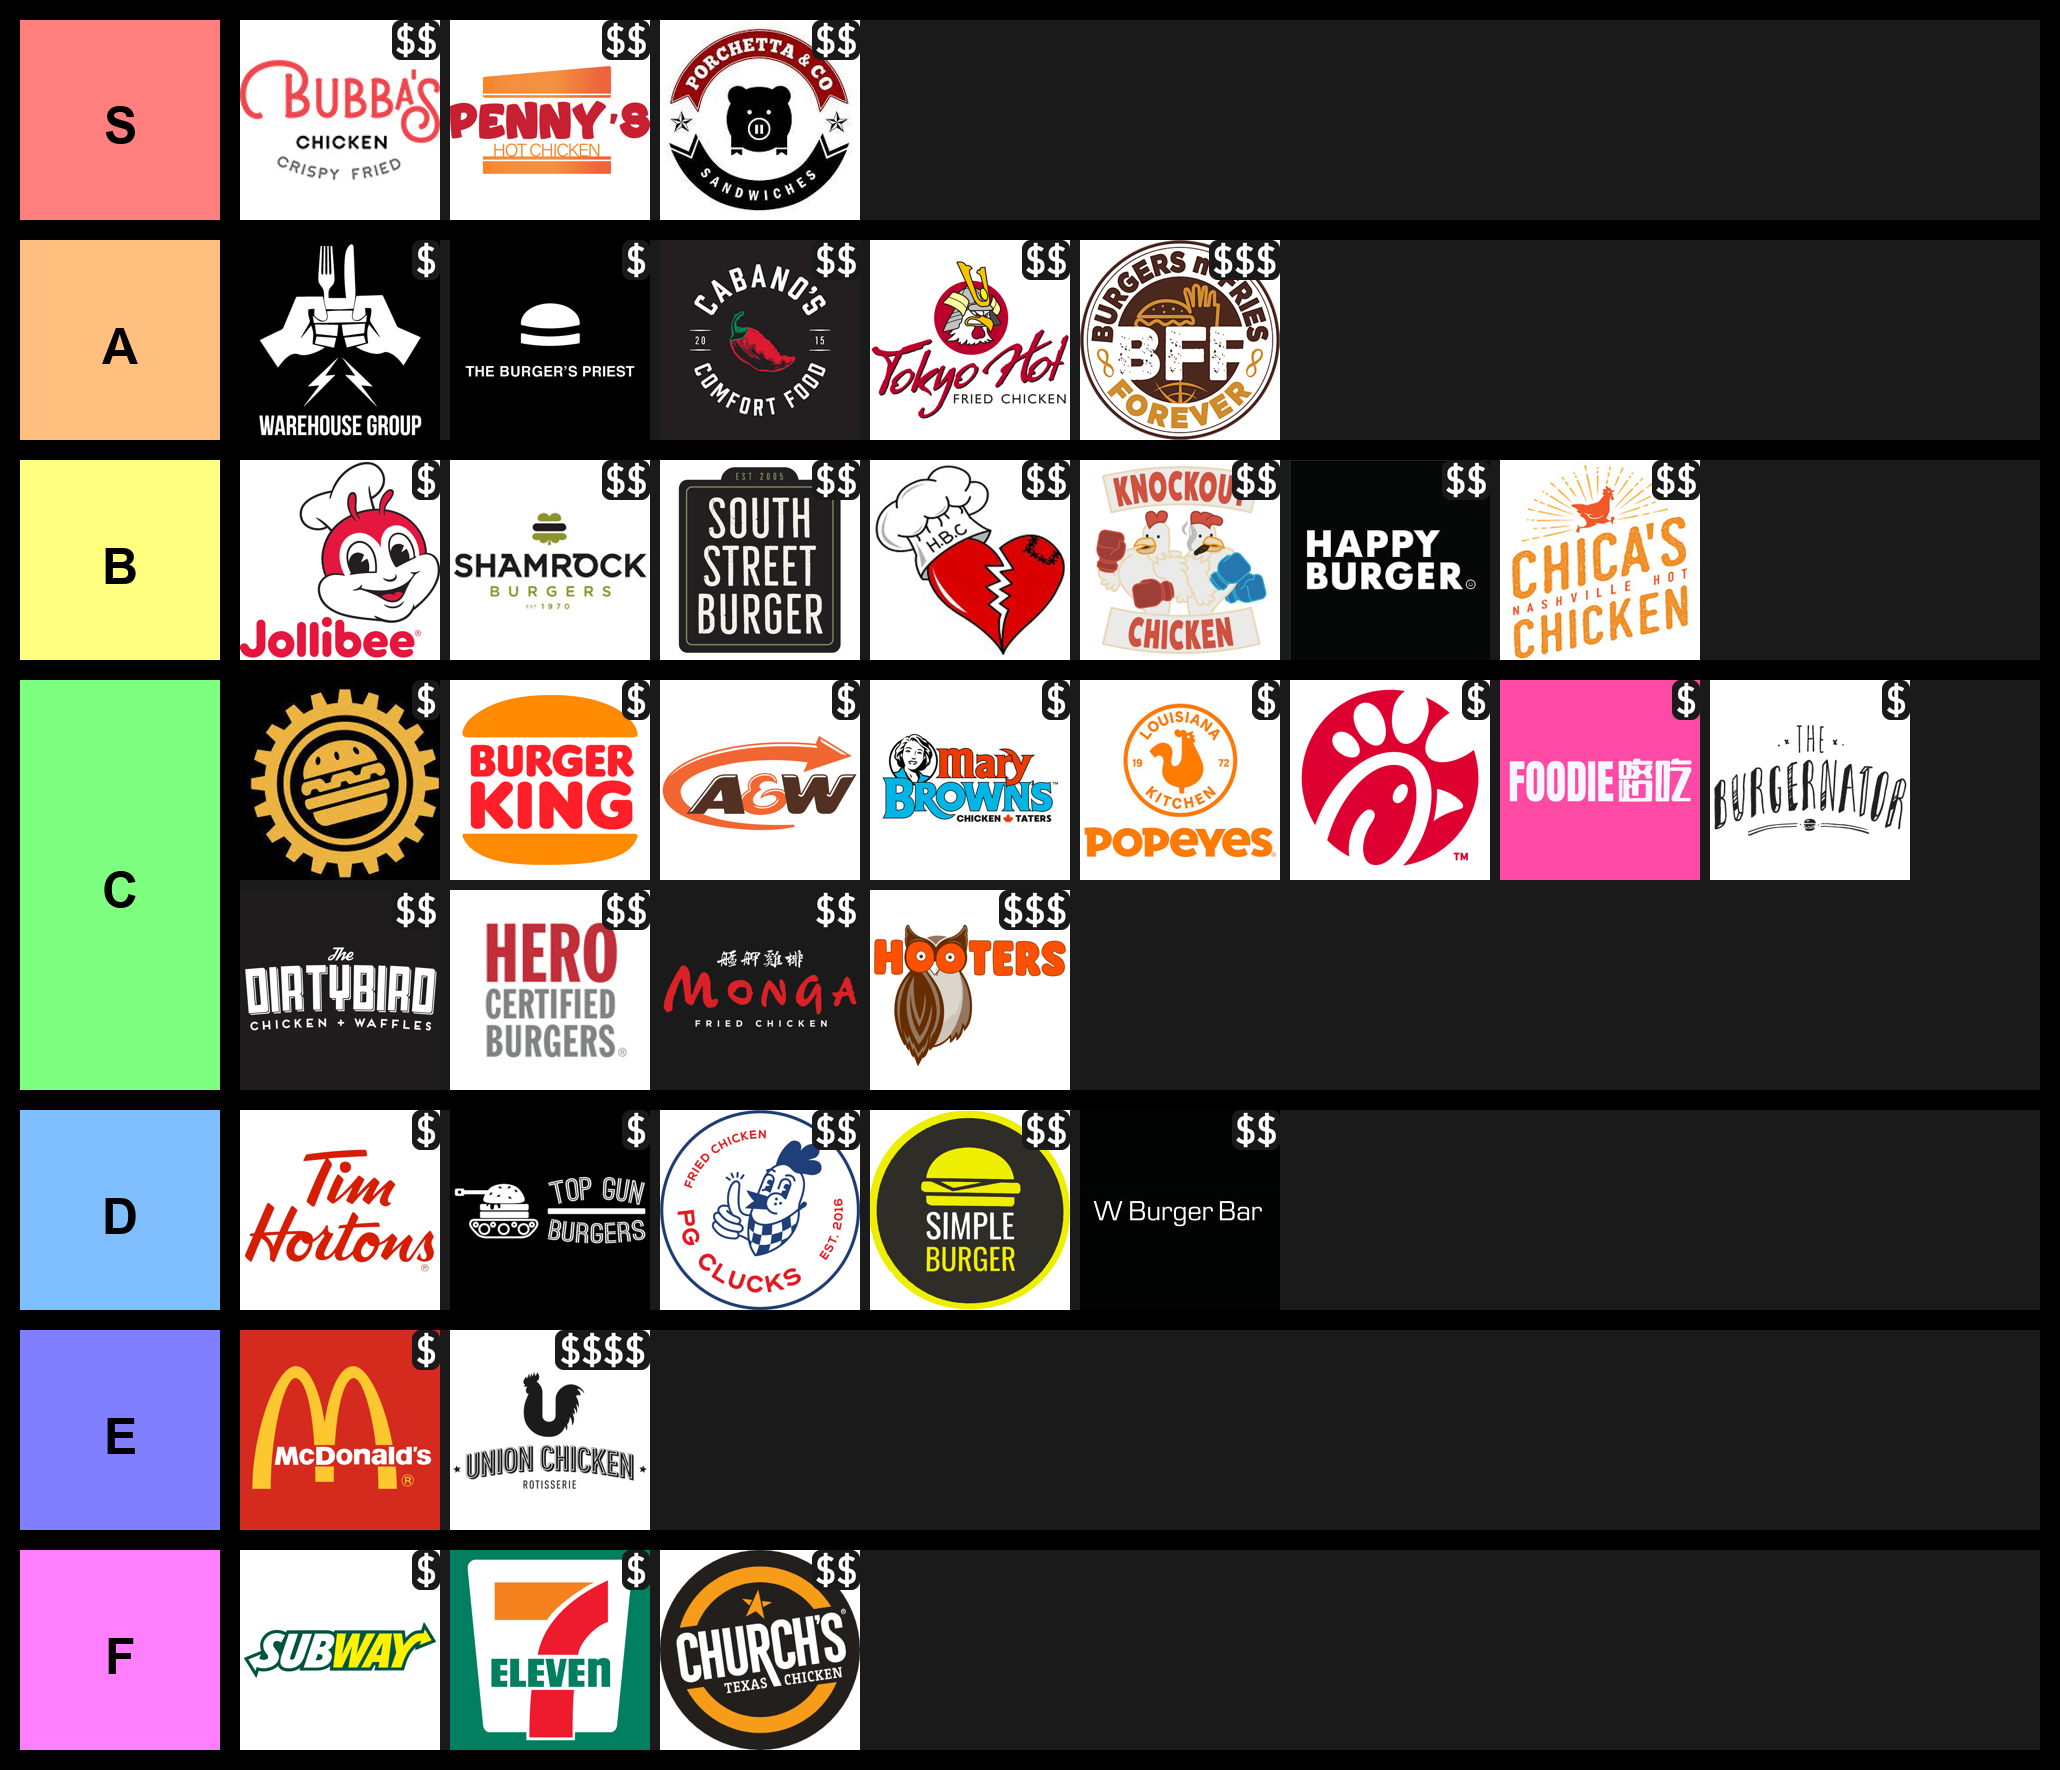
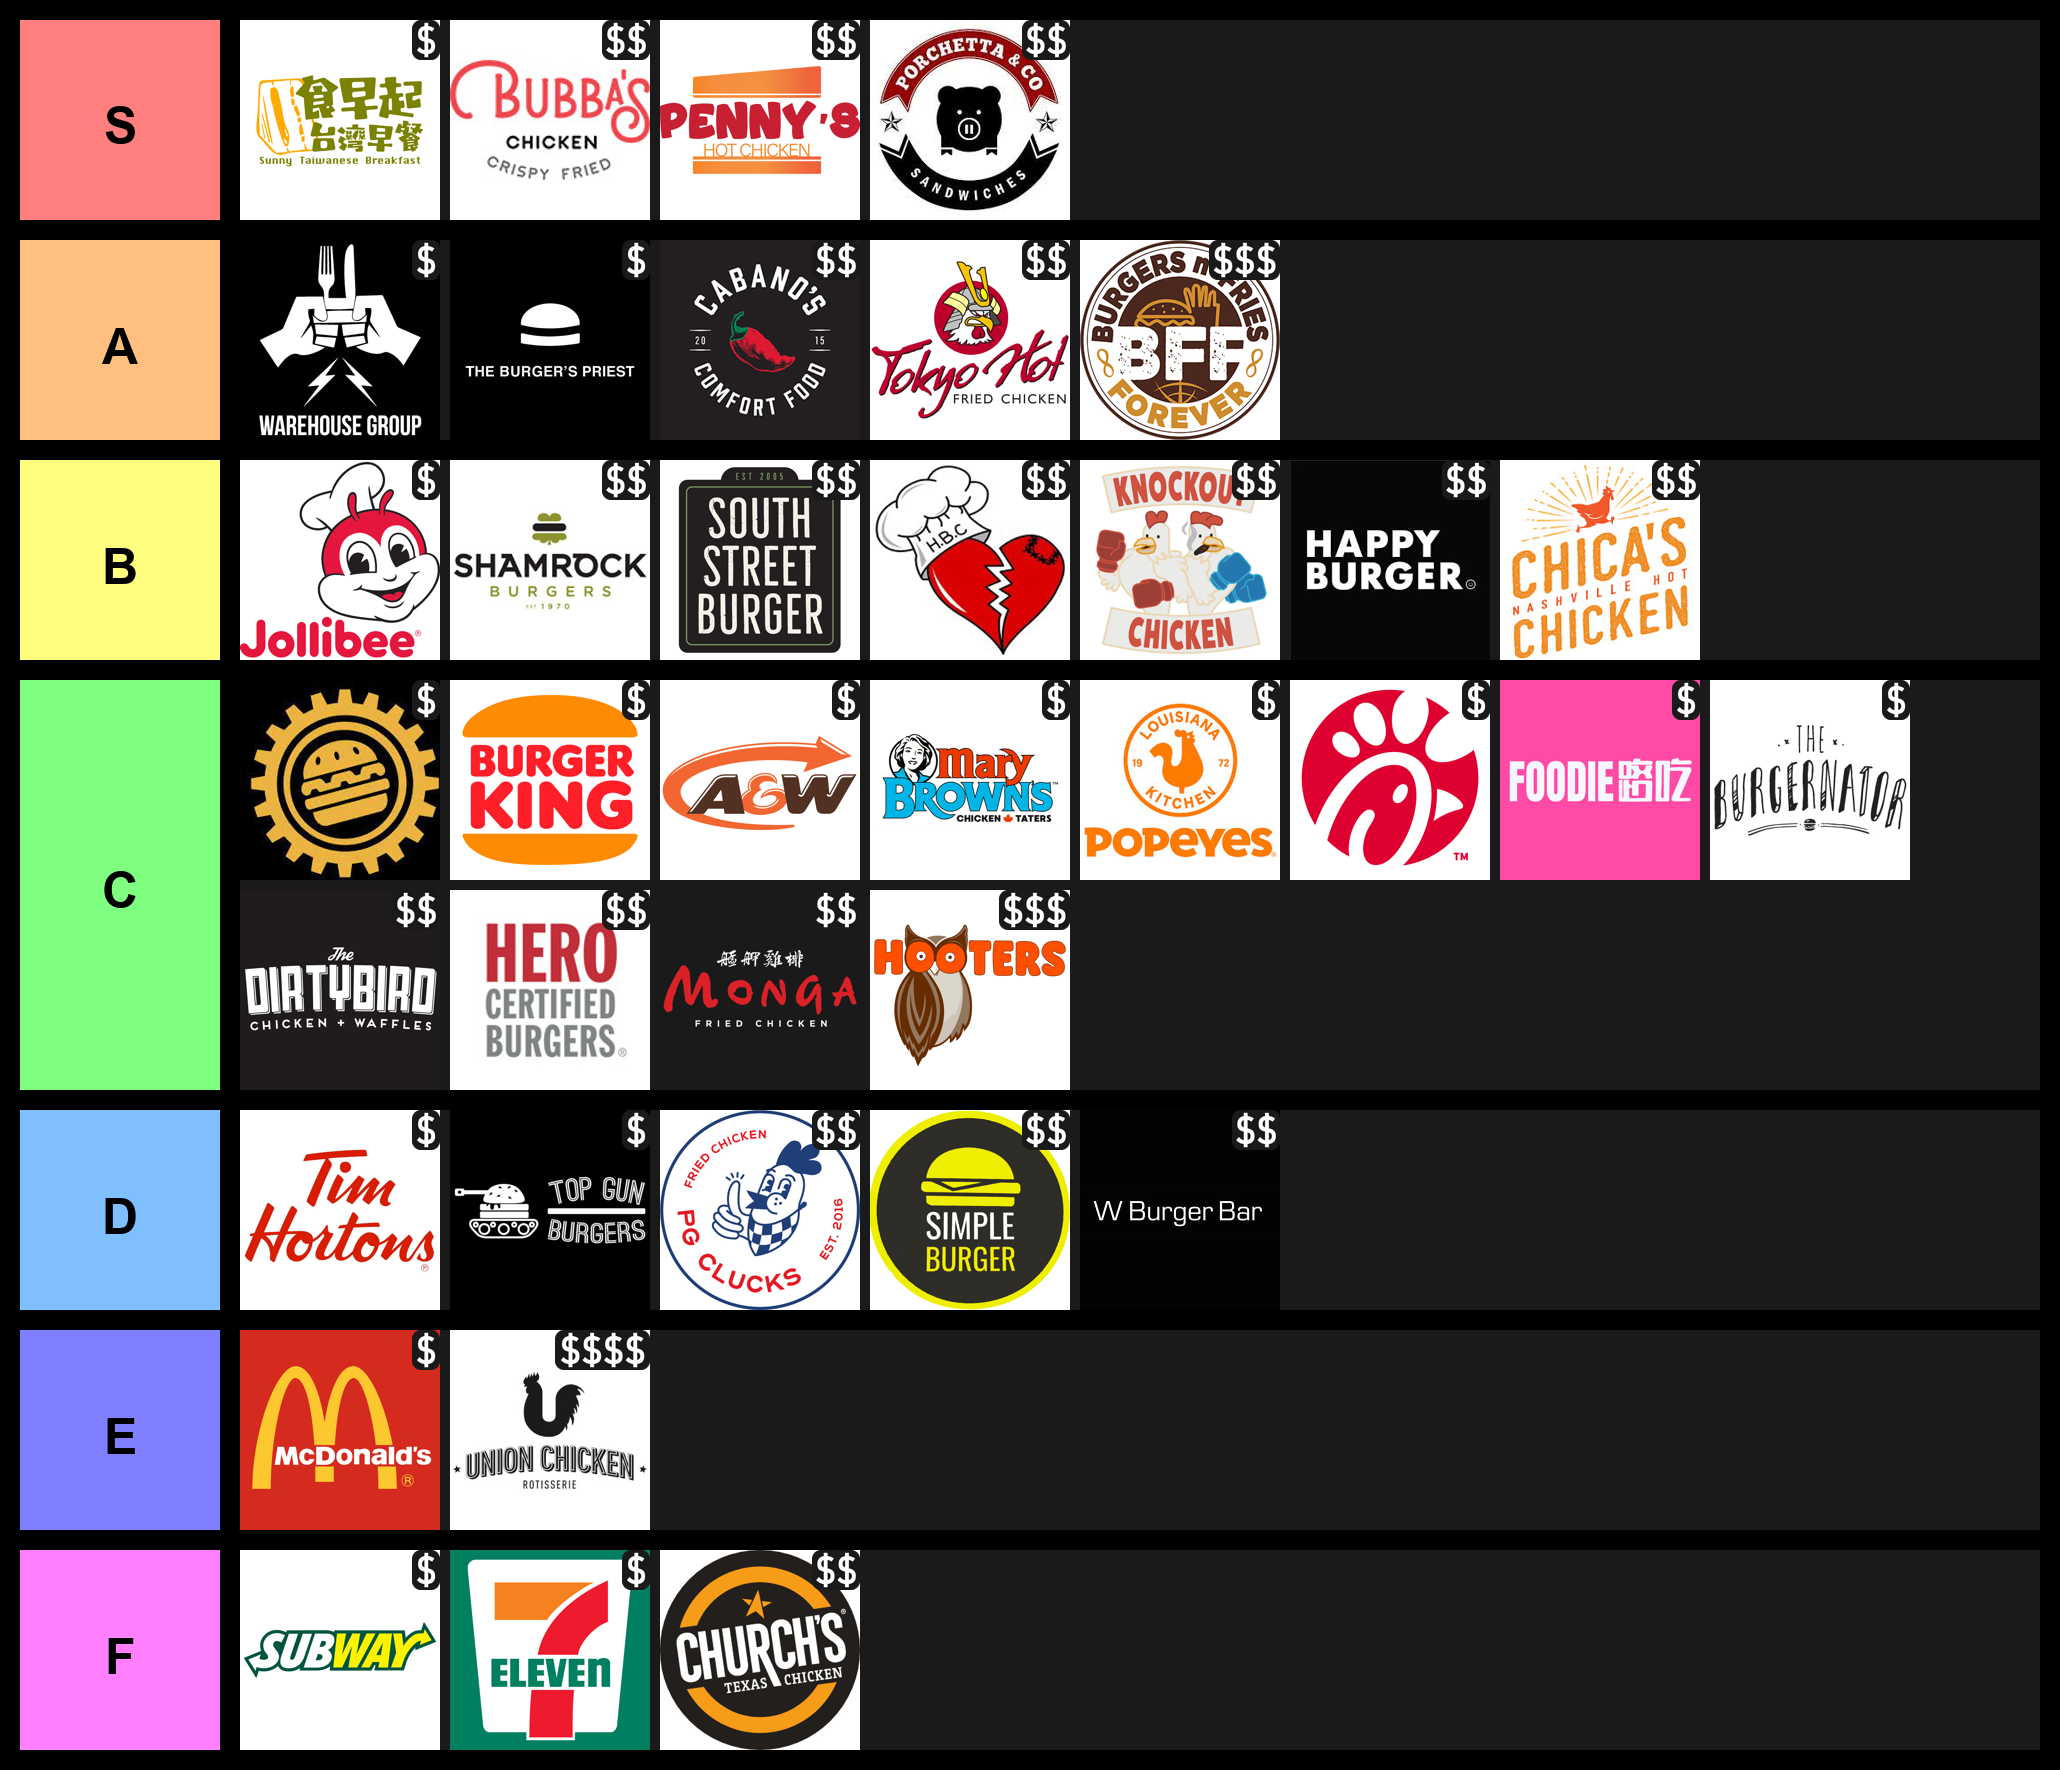
Added Sunny Taiwanese Breakfast + moved tierlist code to helper.py

Changed region(s): [[0.1243, 0.0, 0.5282, 0.1243]]

diff --git a/helper.py b/helper.py
@@ -13,7 +13,6 @@ import certifi
 import pytz
 
 load_dotenv()
-
 connection_string = os.getenv("connection")
 client = pymongo.MongoClient(connection_string, tlsCAFile=certifi.where())
 db = client["fried-chicken-sandwich-bot"]
@@ -356,4 +355,12 @@ def reformat_opening_hours_text(opening_hours_text, opening_hours):
     return "\n".join(modified_list)
 
 if __name__ == '__main__':
-    setup_db()
+    print(collection.count_documents({}))
+    print(len(get_restaurants_info()))
+    if collection.count_documents({}) != len(get_restaurants_info()):
+        setup_db()
+    # Count the number of images under the directory logos
+    count = sum([len(files) for _, _, files in os.walk('logos')])
+    assert count == sum([len(tier_dict[tier]) for tier in tier_dict])
+    tierlist = make_tierlist()
+    tierlist.save('tierlist.png')

diff --git a/tierlist.py b/tierlist.py
@@ -1,5 +1,3 @@
-import os
-
 from PIL import Image, ImageDraw, ImageFont
 import json
 
@@ -144,11 +142,3 @@ def get_first_tier_indexes():
             first_tier_indexes[tier] = first_tier_indexes[tiers[tiers.index(tier) - 1]] + \
                                        len(tier_dict[tiers[tiers.index(tier) - 1]])
     return first_tier_indexes
-
-if __name__ == '__main__':
-    # Count the number of images under the directory logos
-    count = sum([len(files) for _, _, files in os.walk('logos')])
-    assert count == sum([len(tier_dict[tier]) for tier in tier_dict])
-    tierlist = make_tierlist()
-    tierlist.save('tierlist.png')
-
